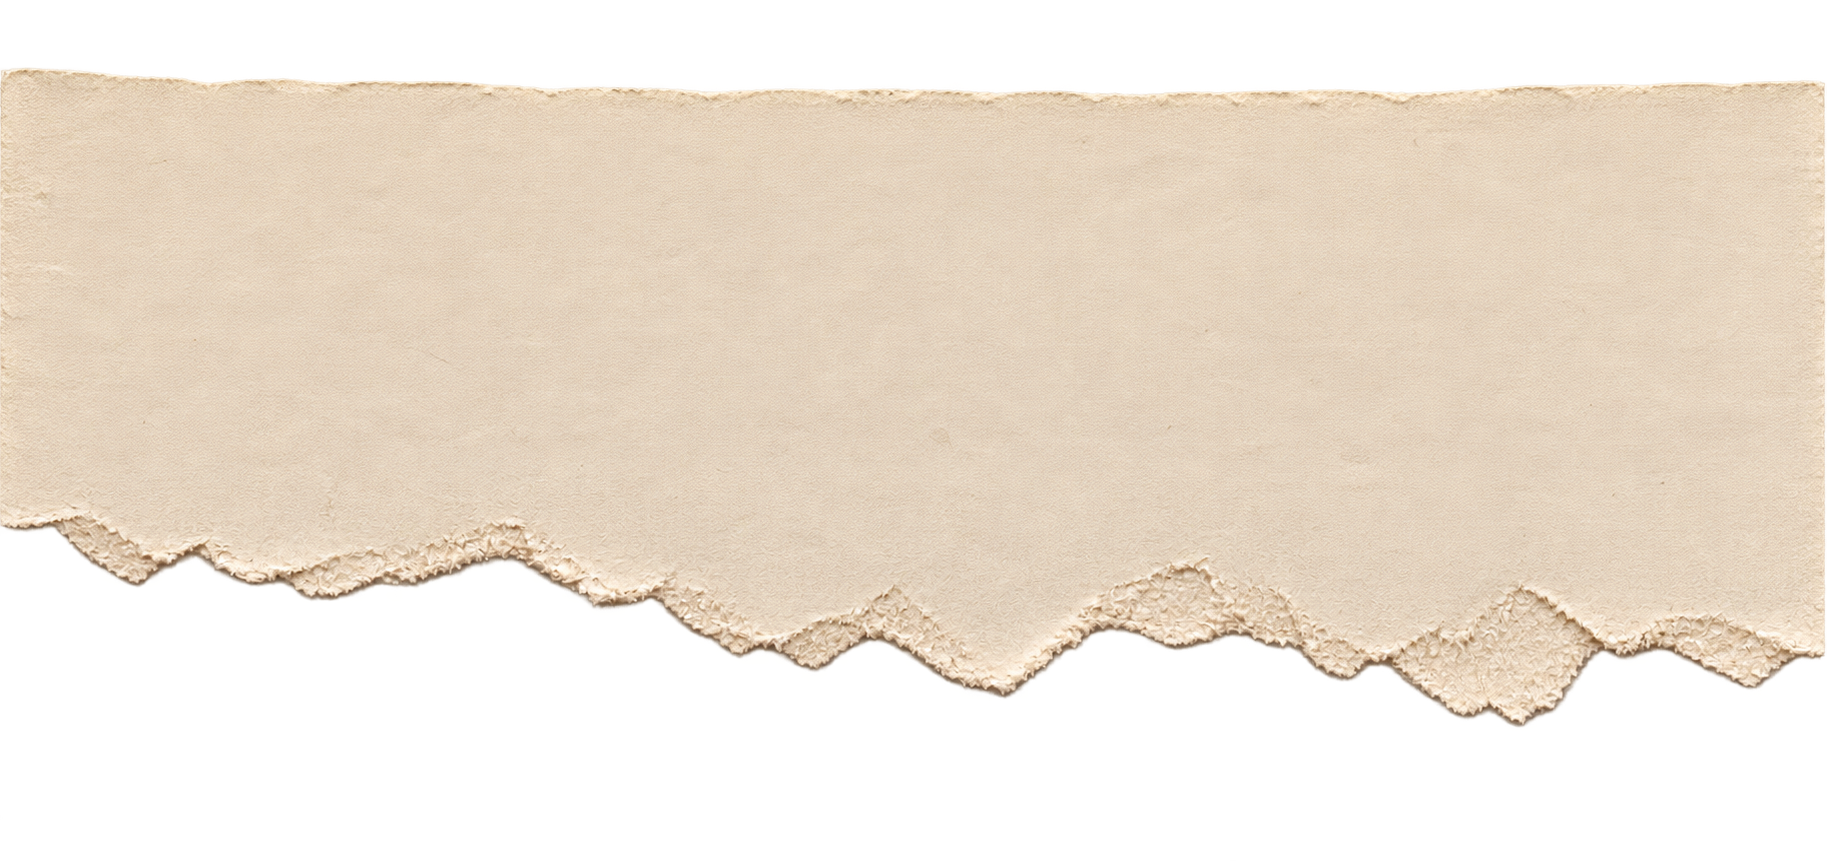
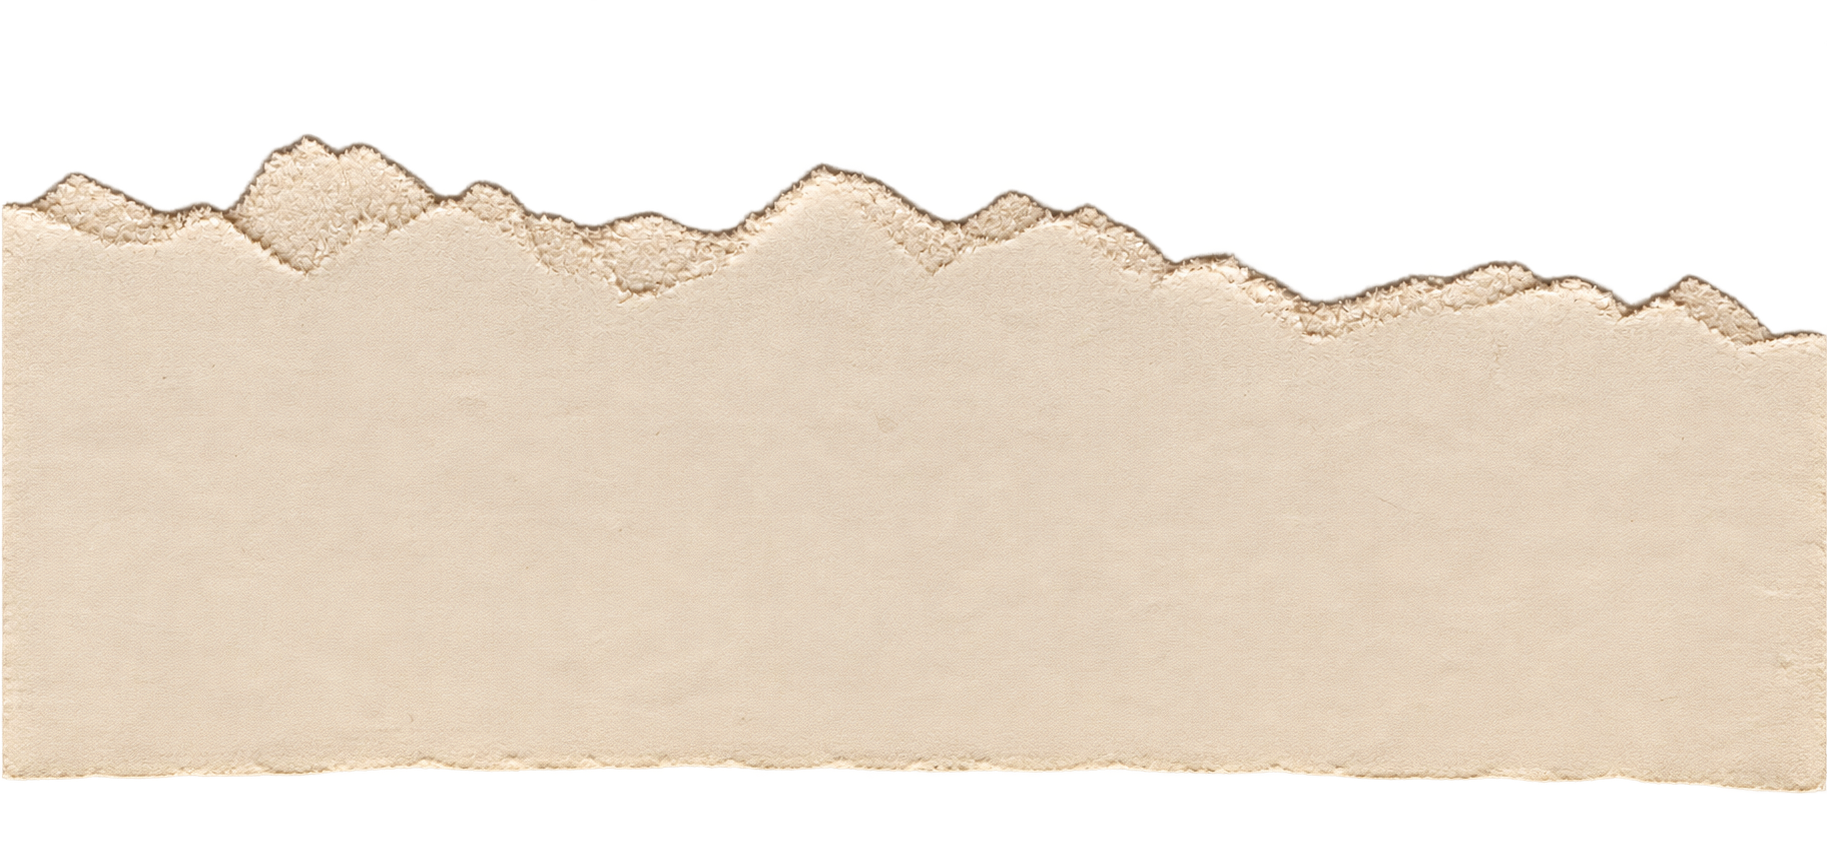
Set the footer on a torn scrap, and fit the whole sheet behind the story
The footer is the paper now, not a dark bar behind one: the scrap is ragged
along its top edge, and what sits above it shows through the tear. The strip
paints the top; below it a gradient layer carries the strip's own solid
tone, measured off the file at rgb(227,210,190), so the two meet without a
seam. It has to be a gradient rather than a background-color — a colour
would fill the ragged transparency and there would be no tear at all. Type
goes to ink.

The story card was showing the sheet cropped and squared off. `cover` cut the
top and bottom away, and a --paper colour layer and a 1px border filled in
the worn edges the art is transparent through, so the sheet had corners it
should not have had. It now fits whole, with nothing painted behind it, and
the shadow is a filter so it follows the torn silhouette instead of the
element's box. Padding grows to keep the copy off the ragged edge.

paper-edge-down.webp and the .footer__tear element go with the arrangement
they were built for.

diff --git a/src/components/Footer.css b/src/components/Footer.css
@@ -1,31 +1,25 @@
 /* ==========================================================================
-   Footer — a single quiet line under everything. The paper above it ends
-   here: the sheet tears away across the top of the footer, and the dark
-   shows through the ragged edge.
+   Footer — a single quiet line under everything, set on a torn scrap of
+   paper. The scrap is ragged along its top edge, so whatever sits above it
+   shows through the tear.
    ========================================================================== */
 
 .footer {
-  --tear: clamp(30px, 6.4vw, 92px);
+  --edge: clamp(40px, 7.2vw, 108px);
   position: relative;
   z-index: 2;
-  background: var(--ink-900);
-  padding-block: calc(clamp(1.1rem, 2.2vw, 1.6rem) + var(--tear) * 0.72)
+  color: var(--paper-ink);
+  /* The scrap: the torn strip across the top, and flat paper below it. The
+     colour is the strip's own solid rows measured off the file
+     (rgb(227,210,190)), so the two meet without a seam. It has to be a
+     gradient layer rather than background-color — a colour would fill the
+     ragged transparency at the top and there would be no tear at all. */
+  background:
+    url("/images/paper-edge-up.webp") center top / 100% var(--edge) no-repeat,
+    linear-gradient(#E3D2BE, #E3D2BE) center bottom / 100%
+      calc(100% - var(--edge) * 0.75) no-repeat;
+  padding-block: calc(clamp(1.1rem, 2.2vw, 1.6rem) + var(--edge) * 0.8)
     clamp(1.1rem, 2.2vw, 1.6rem);
-}
-
-/* The strip is paper at the top, torn away at the bottom. Its top 28% is
-   alpha-ramped, so it hangs that far up into the newsletter’s paper and
-   dissolves into it — butted flush, the flat cream read as a hard line
-   against the sheet’s creases even though the two tones measure the same.
-   The rest sits over the footer, where the tear opens onto the dark. */
-.footer__tear {
-  position: absolute;
-  left: 0;
-  right: 0;
-  top: calc(var(--tear) * -0.28);
-  height: var(--tear);
-  background: url("/images/paper-edge-down.webp") center top / 100% 100% no-repeat;
-  pointer-events: none;
 }
 
 .footer__inner {
@@ -40,14 +34,14 @@
   flex: none;
   font-family: var(--serif);
   font-size: 0.9375rem;
-  color: var(--cream-faint);
+  color: var(--paper-ink-dim);
 }
 .footer__name {
   font-family: var(--script);
   font-size: 1.35em;
   line-height: 1;
   word-spacing: 0.16em;
-  color: var(--cream-dim);
+  color: var(--paper-ink);
 }
 .footer__tagline { display: none; }
 
@@ -63,7 +57,7 @@
   position: relative;
   font-family: var(--serif);
   font-size: 0.9375rem;
-  color: rgba(237, 229, 214, 0.72);
+  color: var(--paper-ink-dim);
   transition: color 420ms var(--ease);
 }
 .footer__link::after {
@@ -78,7 +72,7 @@
   transform-origin: left;
   transition: transform 520ms var(--ease);
 }
-.footer__link:hover { color: var(--cream); }
+.footer__link:hover { color: var(--paper-ink); }
 .footer__link:hover::after,
 .footer__link:focus-visible::after { transform: scaleX(1); }
 
@@ -89,7 +83,7 @@
 }
 .footer__social-link {
   display: block;
-  color: var(--cream-faint);
+  color: var(--paper-ink-dim);
   transition: color 420ms var(--ease);
 }
 .footer__social-link:hover { color: var(--gold); }

diff --git a/src/components/StoryFeature.css b/src/components/StoryFeature.css
@@ -13,16 +13,15 @@
   grid-template-columns: minmax(0, 1fr) minmax(0, 0.62fr);
   align-items: center;
   gap: clamp(1rem, 3vw, 3rem);
-  padding: clamp(1.75rem, 4.4vw, 4.25rem) clamp(1.5rem, 4vw, 4rem);
-  background:
-    url('/images/paper-full.webp') center / cover,
-    var(--paper);
-  border: 1px solid rgba(27, 23, 18, 0.18);
+  padding: clamp(2.25rem, 5.2vw, 5rem) clamp(2rem, 4.8vw, 4.75rem);
+  /* The whole sheet, fitted — not cropped. Nothing may sit behind it: a
+     --paper colour and a rectangular border both used to fill the worn,
+     ragged edges the art is transparent through, which squared the sheet
+     off. For the same reason the shadow is a filter, which follows the
+     torn silhouette, rather than a box-shadow around the element’s box. */
+  background: url('/images/paper-full.webp') center / 100% 100% no-repeat;
   color: var(--paper-ink);
-  box-shadow:
-    0 34px 70px -34px rgba(0, 0, 0, 0.9),
-    inset 0 0 90px rgba(78, 54, 28, 0.2);
-  overflow: hidden;
+  filter: drop-shadow(0 26px 44px rgba(0, 0, 0, 0.72));
 }
 
 .story__body { position: relative; z-index: 1; }

diff --git a/src/components/Footer.jsx b/src/components/Footer.jsx
@@ -29,8 +29,6 @@ export default function Footer() {
 
   return (
     <footer className="footer">
-      <span className="footer__tear" aria-hidden="true" />
-
       <div className="shell footer__inner">
         <p className="footer__copyright">
           © {year} <span className="footer__name">{FOOTER.name}</span>

diff --git a/README.md b/README.md
@@ -153,8 +153,8 @@ Generated from the supplied source art with ImageMagick:
 | `pop.webp` | `images/Mock.png` | de-rotated, regrained archival photograph |
 | `leaf.webp` | `images/Mock.png` | cut out on the HSV saturation channel |
 | `torn-down.webp` | `images/Paper.png` | torn edge under the hero on phones |
-| `paper-edge-up.webp` | `images/Paper edge 2.png` | quality **100**, flipped — the tear that opens onto the closing sheet |
-| `paper-edge-down.webp` | `images/Paper edge 2.png` | quality **100** — the tear across the top of the footer, its top 28% alpha-ramped so it dissolves into the sheet |
+| `paper-edge-up.webp` | `images/Paper edge 2.png` | quality **100**, flipped — the tear above the newsletter, and the footer scrap’s ragged top |
+
 | `paper-full.webp` | `images/Full paper.png` | quality **100** — the whole sheet, behind the newsletter and the first-story card |
 | `paper-texture.webp`, `frame-texture.webp` | `images/Paper.png` | four-way mirrored, seamless |
 
